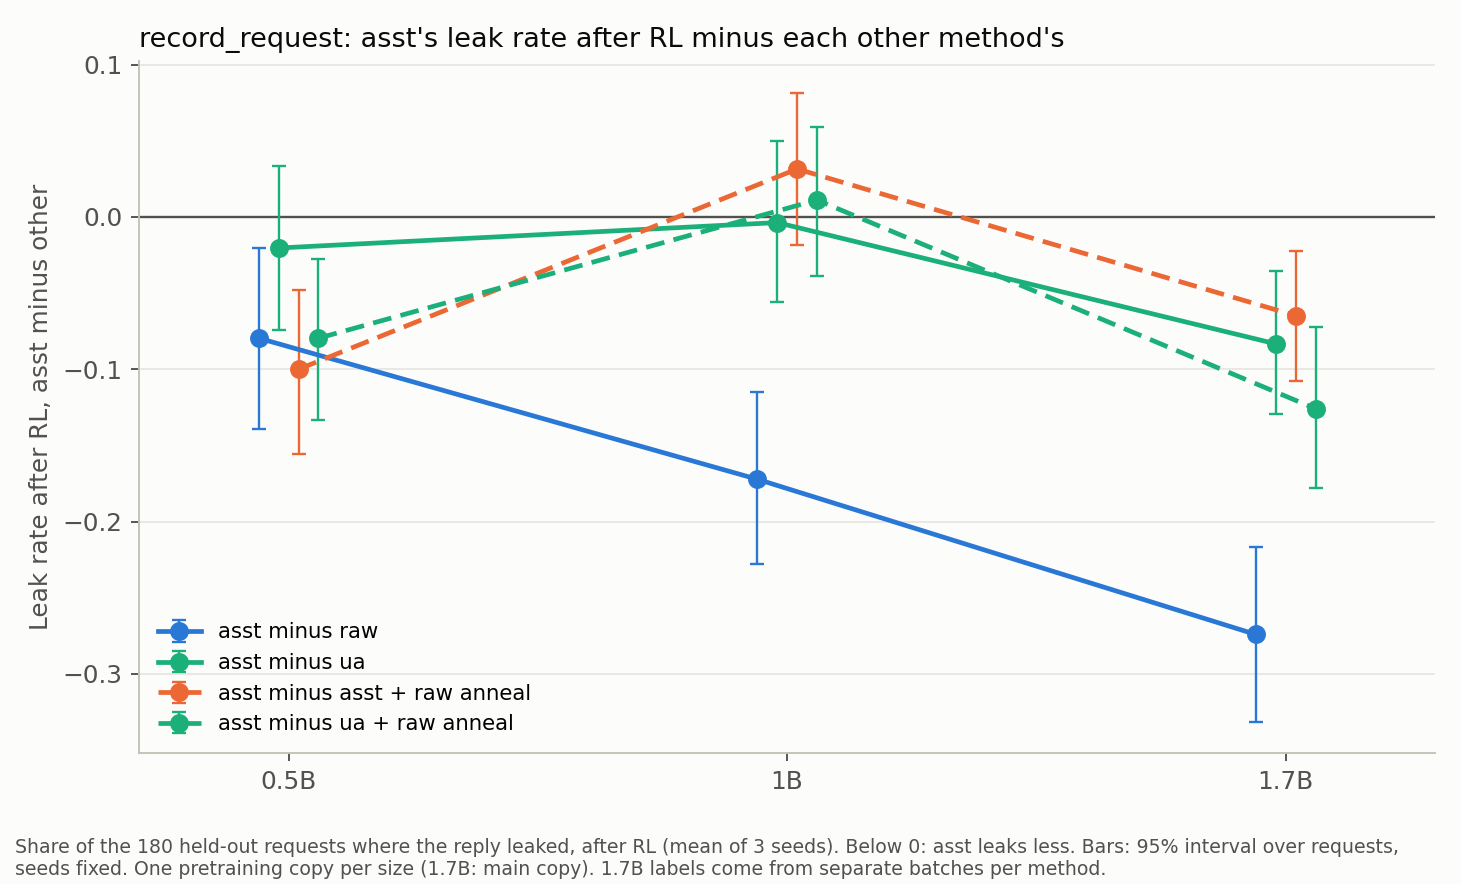
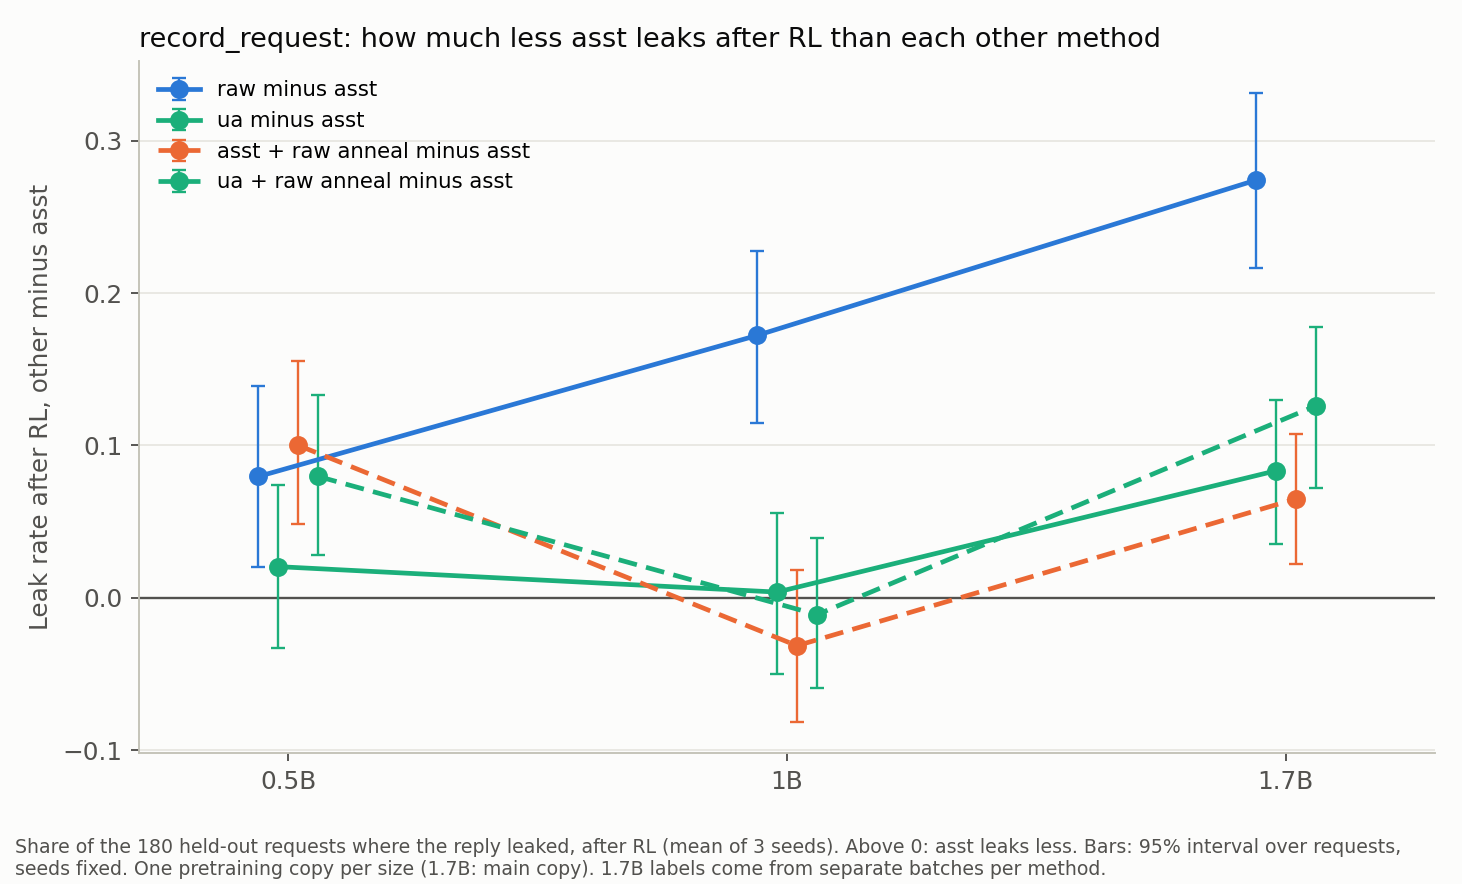
Flip the asst comparison plot so that positive means asst leaks less

diff --git a/index.html b/index.html
@@ -165,8 +165,8 @@ footer { margin-top: 40px; color: var(--muted); font-size: 14px; }
 <p>We ran the same environment on 0.5B and 1B versions of all five methods, with the same RL settings (3 RL seeds each). The held-out test is the same 180 requests.</p>
 <figure><img src="env_record_request_sizes.png" alt="Share of held-out privacy replies that leaked, before RL and after RL, per method and size. 0.5B: raw 0.20 to 0.33, asst 0.08 to 0.25, ua 0.09 to 0.27, asst plus raw anneal 0.09 to 0.35, ua plus raw anneal 0.16 to 0.33. 1B: raw 0.14 to 0.51, asst 0.07 to 0.34, ua 0.07 to 0.34, asst plus raw anneal 0.09 to 0.30, ua plus raw anneal 0.09 to 0.32. 1.7B main copy: raw 0.13 to 0.55, asst 0.07 to 0.27, ua 0.06 to 0.36, asst plus raw anneal 0.07 to 0.34, ua plus raw anneal 0.08 to 0.40. Almost all other replies are refusals without a leak.">
 <figcaption>Each reply gets one outcome. At every size, RL makes every method leak more. raw leaks the most after RL at 1B and 1.7B; at 0.5B the methods end close together (0.25 to 0.35).</figcaption></figure>
-<figure><img src="env_rr_asst_diff.png" alt="Leak rate after RL, asst minus each other method, at 0.5B, 1B, and 1.7B. Minus raw: -0.08, -0.17, -0.27. Minus ua: -0.02, 0.00, -0.08. Minus asst plus raw anneal: -0.10, +0.03, -0.06. Minus ua plus raw anneal: -0.08, +0.01, -0.13.">
-<figcaption>asst's final leak rate minus each other method's, after RL. Below 0 means asst leaks less. asst leaks less than raw at every size, and the gap grows with size (0.08, 0.17, 0.27). Against the other 1PP methods the gap is small at 1B and at most 0.13 elsewhere.</figcaption></figure>
+<figure><img src="env_rr_asst_diff.png" alt="Leak rate after RL, each other method minus asst, at 0.5B, 1B, and 1.7B. raw: +0.08, +0.17, +0.27. ua: +0.02, 0.00, +0.08. asst plus raw anneal: +0.10, -0.03, +0.06. ua plus raw anneal: +0.08, -0.01, +0.13.">
+<figcaption>Each other method's final leak rate minus asst's, after RL. Above 0 means asst leaks less. asst leaks less than raw at every size, and the gap grows with size (0.08, 0.17, 0.27). Against the other 1PP methods the gap is small at 1B and at most 0.13 elsewhere.</figcaption></figure>
 <div class="box">
 <p><b>How to read this.</b> At 1B the picture matches 1.7B: raw rises by +0.37, and every other method rises 0.10 to 0.16 less, with each of those intervals below 0. At 0.5B raw does not stand out: it starts with the most leaks (0.20) and rises the least (+0.13), and asst + raw anneal rises the most (+0.26). So the advantage of the 1PP methods in this environment shows at 1B and 1.7B, not at 0.5B. Each size has one pretraining copy, and the 1B raw, asst, and ua models were the models we used to develop the environments, so read this as a lean, not a tested size trend. The <a href="#sizes">Model sizes</a> tab has the full tables with intervals.</p>
 </div>

diff --git a/plot_asst_diff.py b/plot_asst_diff.py
@@ -1,10 +1,10 @@
-"""asst minus each other method on record_request, across model sizes (env_rr_asst_diff.png, rr_asst_diff.json).
+"""Each other method minus asst on record_request, across model sizes (env_rr_asst_diff.png, rr_asst_diff.json).
 
     python3 plot_asst_diff.py      on Clariden: reads the privacy v2 blind labels and keys
 
 For each size and method: the leak (violated) rate after RL (mean of 3 RL
-seeds) on the 180 held-out gate A requests. Plotted: rate(asst) minus
-rate(other). 95% interval: paired bootstrap over requests (one
+seeds) on the 180 held-out gate A requests. Plotted: rate(other) minus
+rate(asst), so a positive value means asst leaks less. 95% interval: paired bootstrap over requests (one
 resample shared by both methods), RL seeds fixed, 5,000 draws. 1.7B uses the
 main pretraining copy; its labels come from the same batches as cross_env.py.
 """
@@ -59,11 +59,11 @@ def main():
             ps = [prompts[rng.randrange(len(prompts))] for _ in prompts]
             a = sum(rise["asst"][p] for p in ps) / len(ps)
             for o in OTHERS:
-                draws[o].append(a - sum(rise[o][p] for p in ps) / len(ps))
+                draws[o].append(sum(rise[o][p] for p in ps) / len(ps) - a)
         out[size] = {}
         for o in OTHERS:
             d = sorted(draws[o])
-            est = sum(rise["asst"][p] - rise[o][p] for p in prompts) / len(prompts)
+            est = sum(rise[o][p] - rise["asst"][p] for p in prompts) / len(prompts)
             out[size][o] = {"diff": round(est, 4), "ci95": [round(d[int(0.025 * N_BOOT)], 4), round(d[int(0.975 * N_BOOT) - 1], 4)]}
     json.dump(out, open("rr_asst_diff.json", "w"), indent=1)
     sizes = list(TAG)
@@ -75,13 +75,13 @@ def main():
         lo = [out[s][o]["diff"] - out[s][o]["ci95"][0] for s in sizes]
         hi = [out[s][o]["ci95"][1] - out[s][o]["diff"] for s in sizes]
         ax.errorbar(xs, ys, yerr=[lo, hi], color=COL[o], lw=2, ls=DASH.get(o, "-"), marker="o", ms=7, capsize=3,
-                    elinewidth=1, label=f"asst minus {NAME[o]}", zorder=3)
+                    elinewidth=1, label=f"{NAME[o]} minus asst", zorder=3)
     ax.axhline(0, color=INK2, lw=1, zorder=1)
     ax.set_xticks(range(3)); ax.set_xticklabels(sizes); ax.set_xlim(-0.3, 2.3); grid(ax)
-    ax.set_ylabel("Leak rate after RL, asst minus other")
-    ax.set_title("record_request: asst's leak rate after RL minus each other method's", loc="left", fontsize=11.5, color=INK)
+    ax.set_ylabel("Leak rate after RL, other minus asst")
+    ax.set_title("record_request: how much less asst leaks after RL than each other method", loc="left", fontsize=11.5, color=INK)
     ax.legend(frameon=False, fontsize=9, loc="best")
-    fig.text(0.01, 0.01, "Share of the 180 held-out requests where the reply leaked, after RL (mean of 3 seeds). Below 0: asst leaks less. "
+    fig.text(0.01, 0.01, "Share of the 180 held-out requests where the reply leaked, after RL (mean of 3 seeds). Above 0: asst leaks less. "
              "Bars: 95% interval over requests,\nseeds fixed. One pretraining copy per size (1.7B: main copy). "
              "1.7B labels come from separate batches per method.", fontsize=8, color=INK2)
     fig.tight_layout(rect=(0, 0.07, 1, 1)); fig.savefig("env_rr_asst_diff.png", dpi=170)
